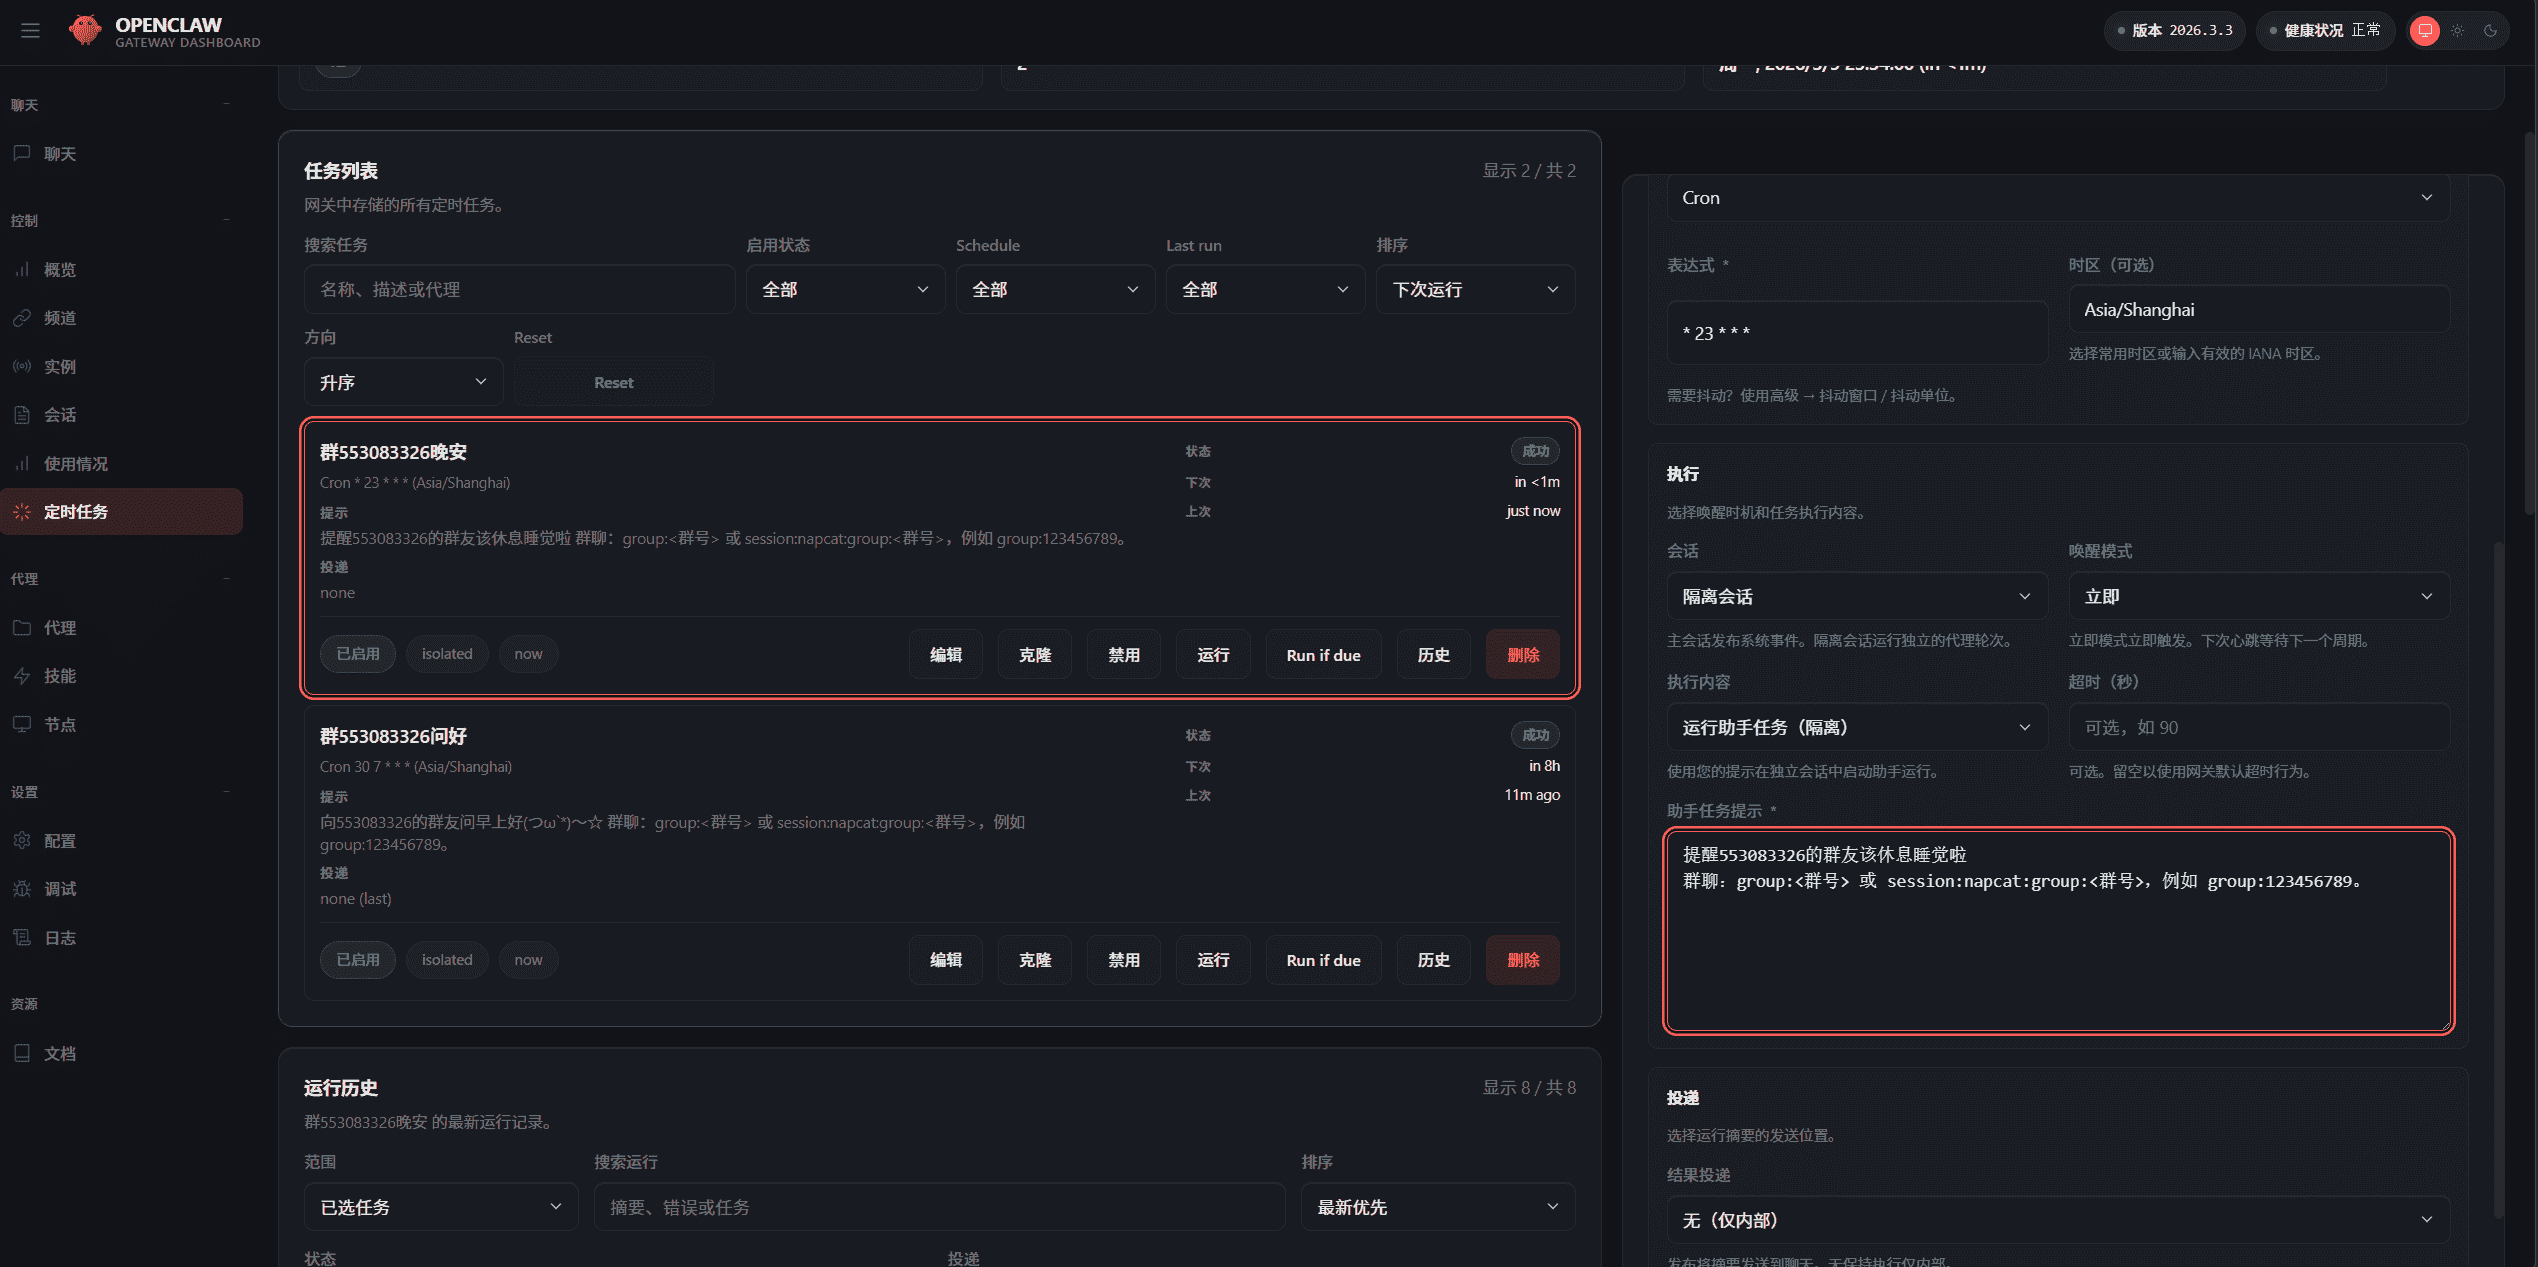
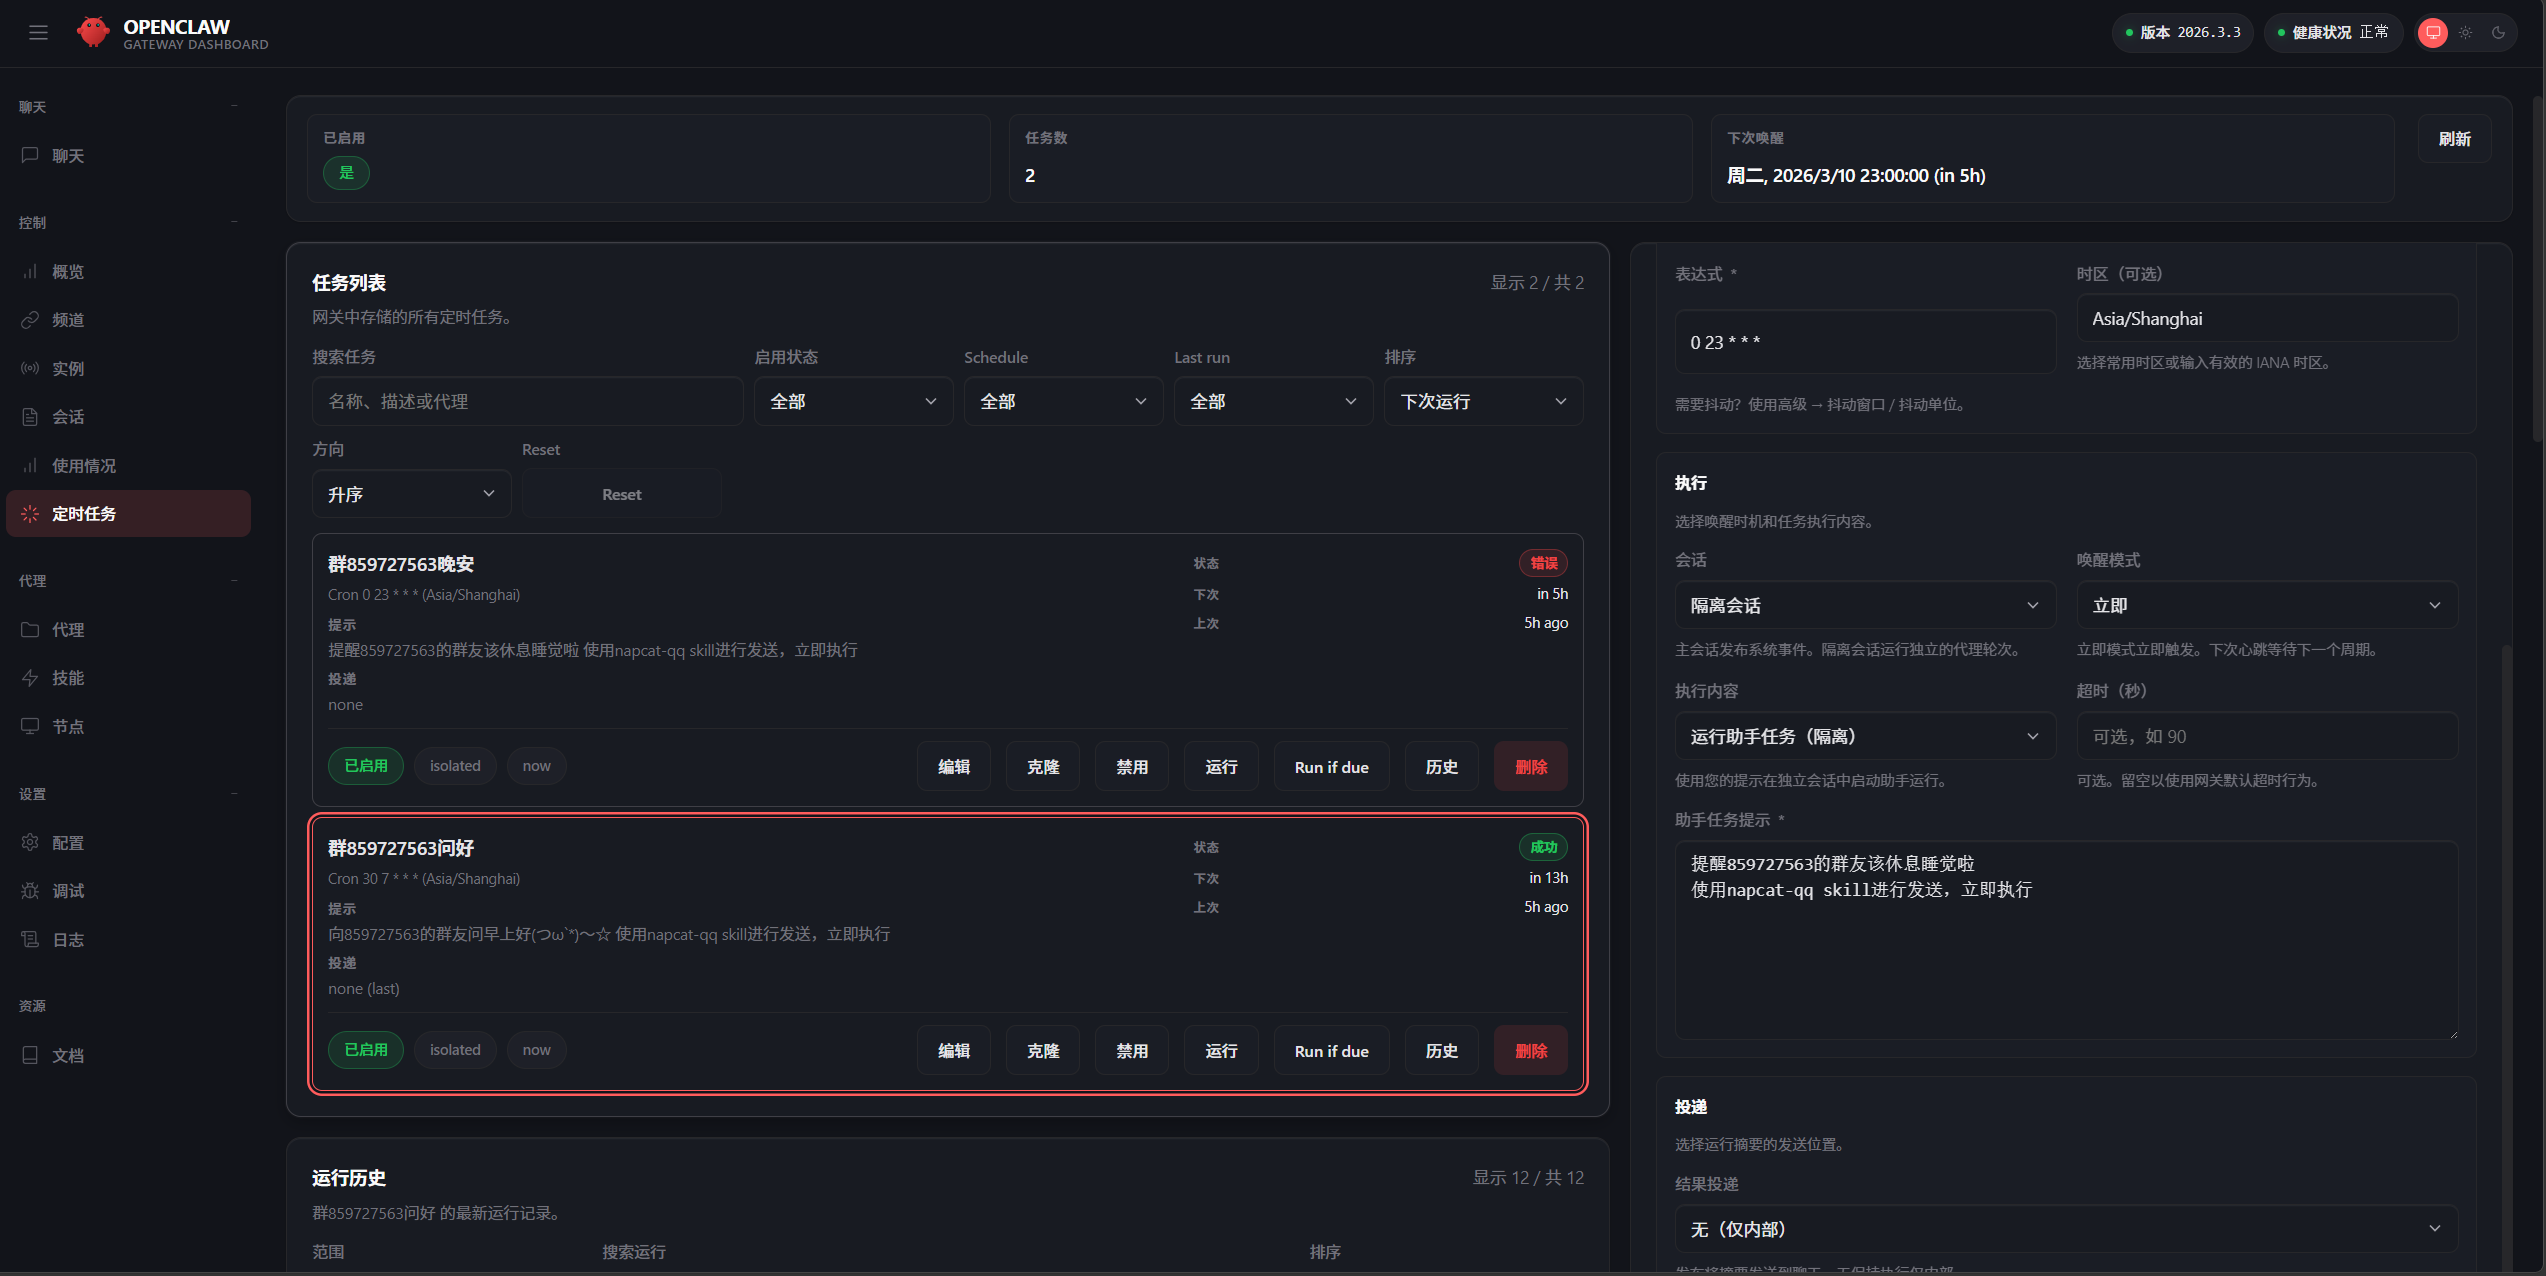
Update README.md to change QQ group number for community engagement and remove outdated QQ.jpg image file.

diff --git a/README.md b/README.md
@@ -4,9 +4,7 @@
 
 本仓库是 **openclaw-napcat-plugin-plus**（Plus 版），在 [原版 openclaw-napcat-plugin](https://github.com/ProperSAMA/openclaw-napcat-plugin) 基础上做了功能增强与扩展。本文档描述的是 **Plus 版** 的安装、配置与使用；若你只关心基础 QQ 通道接入，也可参考原版 README。
 
-![欢迎加入 QQ 群 940648979](docs/image/QQ.jpg)
-
-欢迎加入 QQ 群一起交流 **OpenClaw** 与 **OpenClaw NapCat Plugin Plus** 插件相关内容、提出问题、分享使用经验等。  
+欢迎加入 QQ 群 859727563 群一起交流 **OpenClaw** 与 **OpenClaw NapCat Plugin Plus** 插件相关内容、提出问题、分享使用经验等。  
 也可以在 GitHub Issues 中发帖、拉取代码进行完善。
 
 ---
